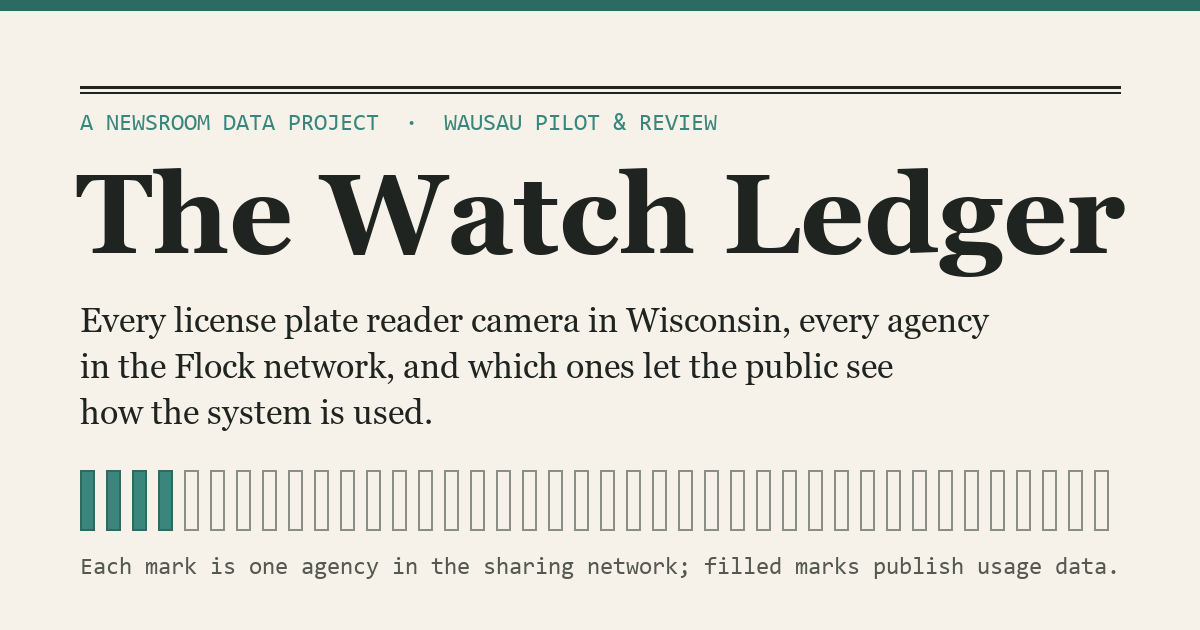
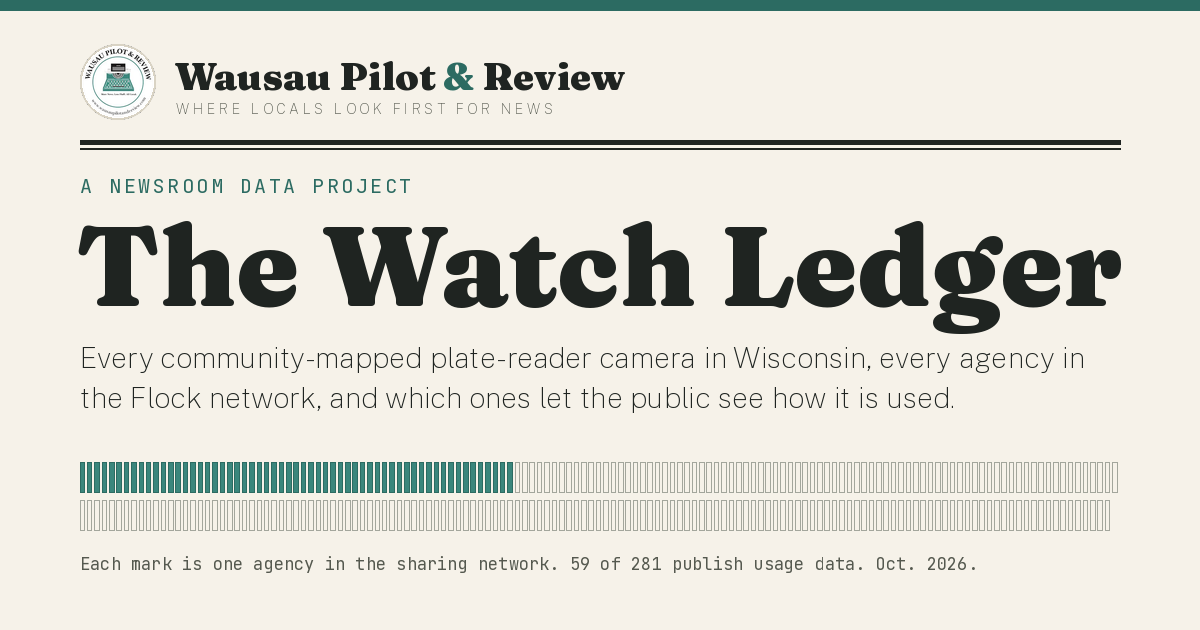
Brand pass: WPR tagline and footer, and a social card that tells the truth
Checked against the wpr-brand skill's house invariants.

Masthead: adds "Where Locals Look First For News" under the wordmark, set
exactly and letter-spaced, as every WPR tool carries it. It is part of the
shared Brand component, so the loading and error states get it too.

Footer: rebuilt to the house pattern, with the seal on the left at 44 px
and a text block of data provenance (all seven sources by name), a
non-affiliation line (Flock Safety, the agencies, the sources), and the
credit with 715-301-5539. Dead .foot-brand/.foot-url CSS removed; the
print stylesheet hides the seal under its new class name.

Social card: the hand-made og-image.png said "Every license plate reader
camera in Wisconsin". That implies completeness, which the house rules
forbid: the page itself says "community-mapped". Its tick bar showed an
illustrative 4 of 40 (10%) where the real ratio is 59 of 281 (21%), and
it had no press seal and a Georgia fallback for the title. The new
pipeline/og_card.py follows the fleet's convention (Pillow, house fonts
downloaded at run time). It draws the seal, wordmark, tagline and double
rule, the title in Fraunces, the corrected subhead, and the tick bar from
the current data with a dated caption, since shares are cached for
weeks. og:image now carries ?v=2026-10 so platforms refetch it.

Payload checked while here: GitHub Pages gzips the data files, and the
six largest total about 140 KB on the wire, so no change is needed.
[…]

diff --git a/site/src/styles.css b/site/src/styles.css
@@ -618,16 +618,6 @@ tbody tr:hover td { background: var(--cream); }
 /* methodology */
 .methodology { border-top: 2px solid var(--ink); padding-top: 1.25rem; }
 .methodology p { font-size: 0.85rem; color: var(--ink-soft); max-width: 46rem; }
-.foot-brand {
-  display: flex;
-  align-items: center;
-  justify-content: flex-end;
-  gap: 11px;
-  margin-top: 2rem;
-  text-decoration: none;
-  text-align: right;
-}
-.foot-brand:hover .foot-wordmark, .foot-brand:focus-visible .foot-wordmark { color: var(--teal-deep); }
 .foot-wordmark {
   display: block;
   font-family: var(--display);
@@ -635,13 +625,6 @@ tbody tr:hover td { background: var(--cream); }
   font-size: 1.05rem;
   line-height: 1.2;
   color: var(--ink);
-}
-.foot-url {
-  display: block;
-  font-family: var(--mono);
-  font-size: 0.68rem;
-  color: var(--teal-deep);
-  margin-top: 2px;
 }
 .foot-badge { width: 44px; height: 44px; }
 
@@ -1017,7 +1000,7 @@ tr.row-home td:first-child { font-weight: 700; }
 @media (max-width: 900px) { .jump { grid-template-columns: repeat(4, minmax(0, 1fr)); } }
 @media (max-width: 560px) { .jump { grid-template-columns: repeat(3, minmax(0, 1fr)); } .jump-link { font-size: 0.6rem; padding: 0.4rem 0.2rem; } }
 .toolbar-note { flex-basis: 100%; margin: 0; font-family: var(--mono); font-size: 0.72rem; color: var(--teal-deep); }
-.foot-credit { font-size: 0.85rem !important; color: var(--ink-soft) !important; margin: 1.2rem 0 0.2rem; }
+.foot-credit { margin: 0; }
 .foot-credit strong { color: var(--ink); }
 
 /* county picker above the map */
@@ -1073,7 +1056,7 @@ tr.row-home td:first-child { font-weight: 700; }
 @media print {
   body { background: #fff; color: #000; font-size: 11pt; }
   .page { max-width: none; padding: 0; }
-  .toolbar, .map-card, .cp, .table-tools, .table-tools-top, .table-hint, .dl, .link-btn, .graph-tools, .foot-brand .brand-badge { display: none !important; }
+  .toolbar, .map-card, .cp, .table-tools, .table-tools-top, .table-hint, .dl, .link-btn, .graph-tools, .foot-seal { display: none !important; }
   .camera-map { height: 420px; }
   .table-scroll, .roster .table-scroll, .county-rollup .table-scroll { max-height: none; overflow: visible; border: none; }
   table { min-width: 0; font-size: 9pt; }
@@ -1635,3 +1618,21 @@ tr.row-home td:first-child { font-weight: 700; }
 .graph-scroll + .gap-caption, .silent-rows + .gap-caption, .reach-rows + .gap-caption { margin-top: 0.55rem; }
 .graph-scroll:focus-visible { outline: 2px solid var(--teal-deep); outline-offset: 2px; }
 .ledger-stale summary:focus-visible { outline: 2px solid var(--cream); outline-offset: 2px; }
+
+/* WPR house tagline, set exactly; sits under the wordmark, aligned with it */
+.tagline {
+  font-family: var(--body);
+  font-size: 0.64rem;
+  letter-spacing: 0.28em;
+  text-transform: uppercase;
+  color: var(--ink-soft);
+  margin: 0.35rem 0 0 calc(54px + 13px);
+}
+@media (max-width: 420px) { .tagline { margin-left: 0; letter-spacing: 0.2em; } }
+
+/* WPR house footer: seal left at 44 px, provenance, non-affiliation, credit */
+.foot { display: flex; gap: 14px; align-items: flex-start; margin-top: 2rem; padding-top: 1.1rem; border-top: 1px solid var(--line); }
+.foot-seal { flex-shrink: 0; line-height: 0; }
+.foot-text p { font-size: 0.75rem; line-height: 1.6; color: var(--ink-soft); margin: 0 0 0.35rem; max-width: 40rem; }
+.foot-text p.foot-wordmark { font-family: var(--display); font-weight: 650; font-size: 1.05rem; color: var(--ink); line-height: 1.2; margin-bottom: 0.3rem; }
+.foot-text .foot-credit strong { color: var(--ink); }

diff --git a/site/src/Methodology.jsx b/site/src/Methodology.jsx
@@ -134,24 +134,33 @@ export default function Methodology({ meta, wisdot, counties, withPortal, staleT
         versioned on GitHub</a>, refreshed every Monday. Both tables above export to CSV.
       </p>
 
-      <p className="foot-credit">
-        Reporting tool developed by <strong>Rowan Flynn</strong> for Wausau Pilot &amp; Review
-        {" · "}<a className="foot-tel" href="tel:+17153015539">715-301-5539</a>
-      </p>
-
-      <a className="foot-brand" href="https://wausaupilotandreview.com" target="_blank" rel="noreferrer">
-        <span>
-          <span className="foot-wordmark">
+      <div className="foot">
+        <a className="foot-seal" href="https://wausaupilotandreview.com" target="_blank" rel="noreferrer" aria-label="Wausau Pilot & Review home">
+          <span
+            className="brand-badge foot-badge"
+            aria-hidden="true"
+            style={{ backgroundImage: `url(${import.meta.env.BASE_URL}wpr-badge.jpg)` }}
+          />
+        </a>
+        <div className="foot-text">
+          <p className="foot-wordmark">
             Wausau Pilot <span className="amp">&amp;</span> Review
-          </span>
-          <span className="foot-url">wausaupilotandreview.com</span>
-        </span>
-        <span
-          className="brand-badge foot-badge"
-          aria-hidden="true"
-          style={{ backgroundImage: `url(${import.meta.env.BASE_URL}wpr-badge.jpg)` }}
-        />
-      </a>
+          </p>
+          <p>
+            Data from DeFlock volunteers on OpenStreetMap, Eyes On Flock, USA TODAY, Wisconsin DOT
+            records mapped by Deflock Dane, EFF's Atlas of Surveillance, ICE and the Wisconsin
+            Department of Administration · refreshed every Monday.
+          </p>
+          <p>
+            Not affiliated with or endorsed by Flock Safety, any law enforcement agency listed here,
+            or any of the sources above.
+          </p>
+          <p className="foot-credit">
+            Reporting tool developed by <strong>Rowan Flynn</strong> for Wausau Pilot &amp; Review
+            {" · "}<a className="foot-tel" href="tel:+17153015539">715-301-5539</a>
+          </p>
+        </div>
+      </div>
     </footer>
   );
 }

diff --git a/site/index.html b/site/index.html
@@ -11,12 +11,12 @@
     <meta property="og:title" content="The Watch Ledger" />
     <meta property="og:description" content="Tracking automated license plate reader surveillance across Wisconsin: every mapped camera, every agency in the Flock network, who publishes their data, and who actually runs the searches." />
     <meta property="og:url" content="https://rowanflynnpilot.github.io/wpr-watch-ledger/" />
-    <meta property="og:image" content="https://rowanflynnpilot.github.io/wpr-watch-ledger/og-image.png" />
+    <meta property="og:image" content="https://rowanflynnpilot.github.io/wpr-watch-ledger/og-image.png?v=2026-10" />
     <meta property="og:image:width" content="1200" />
     <meta property="og:image:height" content="630" />
     <meta property="og:image:alt" content="The Watch Ledger: Wausau Pilot & Review's tracker of license plate reader surveillance in Wisconsin" />
     <meta name="twitter:card" content="summary_large_image" />
-    <meta name="twitter:image" content="https://rowanflynnpilot.github.io/wpr-watch-ledger/og-image.png" />
+    <meta name="twitter:image" content="https://rowanflynnpilot.github.io/wpr-watch-ledger/og-image.png?v=2026-10" />
     <meta name="twitter:title" content="The Watch Ledger" />
     <meta name="twitter:description" content="Tracking automated license plate reader surveillance across Wisconsin: every mapped camera, every agency in the Flock network, who publishes their data, and who actually runs the searches." />
     <link rel="preconnect" href="https://fonts.googleapis.com" />

diff --git a/site/src/App.jsx b/site/src/App.jsx
@@ -39,6 +39,7 @@ function Brand() {
           Wausau Pilot <span className="amp">&amp;</span> Review
         </span>
       </a>
+      <p className="tagline">Where Locals Look First For News</p>
       <div className="rule-double" aria-hidden="true" />
       <p className="eyebrow">A newsroom data project · developed by Rowan Flynn</p>
       <h1>The Watch Ledger</h1>

diff --git a/pipeline/og_card.py b/pipeline/og_card.py
@@ -1,0 +1,139 @@
+"""Build the 1200x630 social card, site/public/og-image.png.
+
+    python pipeline/og_card.py
+
+Run by hand when the branding or the headline figure changes enough to matter, not on every
+deploy: social platforms cache a card for weeks, so its one figure carries a month and year.
+Follows WPR's card convention: the press seal, the WPR name and tagline, the tool's name in
+the system's display face, one line of subhead, no screenshots of the tool. Fonts are the
+house faces (Fraunces, Public Sans, JetBrains Mono), downloaded from Google Fonts' repository
+at run time into a cache folder, so the card never falls back to a system serif.
+"""
+
+import json
+import sys
+import urllib.request
+from datetime import date
+from pathlib import Path
+
+from PIL import Image, ImageDraw, ImageFont
+
+ROOT = Path(__file__).resolve().parent.parent
+OUT = ROOT / "site" / "public" / "og-image.png"
+BADGE = ROOT / "site" / "public" / "wpr-badge.jpg"
+CACHE = Path.home() / ".cache" / "wpr-fonts"
+
+FONTS = {
+    "fraunces": "https://github.com/google/fonts/raw/main/ofl/fraunces/Fraunces%5BSOFT,WONK,opsz,wght%5D.ttf",
+    "publicsans": "https://github.com/google/fonts/raw/main/ofl/publicsans/PublicSans%5Bwght%5D.ttf",
+    "jetbrains": "https://github.com/google/fonts/raw/main/ofl/jetbrainsmono/JetBrainsMono%5Bwght%5D.ttf",
+}
+
+CREAM, INK, INK_SOFT = "#F6F2E9", "#1F2421", "#55594F"
+TEAL, TEAL_DEEP, LINE = "#3A867C", "#2C6B62", "#D9D3C4"
+W, H, M = 1200, 630, 80
+MONTHS = ["Jan.", "Feb.", "March", "April", "May", "June", "July", "Aug.", "Sept.", "Oct.", "Nov.", "Dec."]
+
+
+def font_file(key: str) -> Path:
+    CACHE.mkdir(parents=True, exist_ok=True)
+    path = CACHE / f"{key}.ttf"
+    if not path.exists():
+        req = urllib.request.Request(FONTS[key], headers={"User-Agent": "WPR-WatchLedger/1.0"})
+        path.write_bytes(urllib.request.urlopen(req, timeout=60).read())
+    return path
+
+
+def face(key: str, size: int, **axes) -> ImageFont.FreeTypeFont:
+    f = ImageFont.truetype(str(font_file(key)), size)
+    if axes:
+        names = [a["name"].decode() if isinstance(a["name"], bytes) else a["name"] for a in f.get_variation_axes()]
+        defaults = {n: a["default"] for n, a in zip(names, f.get_variation_axes())}
+        f.set_variation_by_axes([axes.get(n.lower(), axes.get(n, defaults[n])) for n in names])
+    return f
+
+
+def tracked(draw, xy, text, font, fill, spacing):
+    x, y = xy
+    for ch in text:
+        draw.text((x, y), ch, font=font, fill=fill)
+        x += draw.textlength(ch, font=font) + spacing
+    return x
+
+
+def wrap(draw, text, font, width):
+    lines, line = [], ""
+    for word in text.split():
+        trial = f"{line} {word}".strip()
+        if draw.textlength(trial, font=font) <= width:
+            line = trial
+        else:
+            lines.append(line)
+            line = word
+    return lines + [line]
+
+
+def main() -> None:
+    agencies = json.loads((ROOT / "data" / "agencies.json").read_text(encoding="utf-8"))["agencies"]
+    network = [a for a in agencies if a["in_network"]]
+    publish = sum(1 for a in network if a["portal"])
+    if not network or not BADGE.exists():
+        sys.exit("og_card: need data/agencies.json and site/public/wpr-badge.jpg")
+
+    img = Image.new("RGB", (W, H), CREAM)
+    d = ImageDraw.Draw(img)
+    d.rectangle([0, 0, W, 10], fill=TEAL_DEEP)
+
+    # The flag: seal, wordmark, tagline, then the newspaper's thick-over-thin rule.
+    seal = Image.open(BADGE).convert("RGB").resize((76, 76), Image.LANCZOS)
+    mask = Image.new("L", (76 * 4, 76 * 4), 0)
+    ImageDraw.Draw(mask).ellipse([0, 0, 76 * 4 - 1, 76 * 4 - 1], fill=255)
+    img.paste(seal, (M, 44), mask.resize((76, 76), Image.LANCZOS))
+    d.ellipse([M, 44, M + 75, 44 + 75], outline=LINE, width=2)
+    wordmark = face("fraunces", 38, opsz=72, wght=650)
+    x = M + 76 + 18
+    d.text((x, 52), "Wausau Pilot ", font=wordmark, fill=INK)
+    x += d.textlength("Wausau Pilot ", font=wordmark)
+    amp = face("fraunces", 38, opsz=72, wght=500)
+    d.text((x, 52), "&", font=amp, fill=TEAL_DEEP)
+    x += d.textlength("& ", font=amp)
+    d.text((x, 52), "Review", font=wordmark, fill=INK)
+    tracked(d, (M + 76 + 20, 100), "WHERE LOCALS LOOK FIRST FOR NEWS", face("publicsans", 14, wght=500), INK_SOFT, 3.6)
+    d.rectangle([M, 140, W - M, 144], fill=INK)
+    d.rectangle([M, 148, W - M, 149], fill=INK)
+
+    tracked(d, (M, 172), "A NEWSROOM DATA PROJECT", face("jetbrains", 20, wght=500), TEAL_DEEP, 2.5)
+    d.text((M - 4, 196), "The Watch Ledger", font=face("fraunces", 112, opsz=144, wght=800), fill=INK)
+
+    sub = ("Every community-mapped plate-reader camera in Wisconsin, every agency in the "
+           "Flock network, and which ones let the public see how it is used.")
+    sub_font = face("publicsans", 29, wght=400)
+    y = 340
+    for line in wrap(d, sub, sub_font, W - 2 * M):
+        d.text((M, y), line, font=sub_font, fill=INK)
+        y += 40
+
+    # The signature tick bar, from the current data: one mark per agency in the network.
+    rows = 2
+    per_row = -(-len(network) // rows)
+    pitch = (W - 2 * M) / per_row
+    tw, th, top = max(2.0, pitch * 0.62), 30, 462
+    order = sorted(network, key=lambda a: (a["portal"] is None, a["name"]))
+    for i, a in enumerate(order):
+        r, c = divmod(i, per_row)
+        x0, y0 = M + c * pitch, top + r * (th + 8)
+        if a["portal"]:
+            d.rectangle([x0, y0, x0 + tw, y0 + th], fill=TEAL, outline=TEAL_DEEP)
+        else:
+            d.rectangle([x0, y0, x0 + tw, y0 + th], outline="#A3A69C", width=1)
+    today = date.today()
+    caption = (f"Each mark is one agency in the sharing network. {publish} of {len(network)} publish "
+               f"usage data. {MONTHS[today.month - 1]} {today.year}.")
+    d.text((M, top + rows * (th + 8) + 14), caption, font=face("jetbrains", 17, wght=400), fill=INK_SOFT)
+
+    img.save(OUT, optimize=True)
+    print(f"wrote {OUT.relative_to(ROOT)}: {publish} of {len(network)} publish, {OUT.stat().st_size // 1024} KB")
+
+
+if __name__ == "__main__":
+    main()

diff --git a/CLAUDE.md b/CLAUDE.md
@@ -209,6 +209,12 @@ until 2026-10-26 and clashed with the DROPPED badges beside them). The map's rus
 permit" rings are the one deliberate exception, a gap the volunteers haven't mapped.
 Fraunces display, Public Sans body, JetBrains Mono for data. Signature element: the
 transparency-gap tick bar (one tick per network agency, filled = publishes a portal).
+This is WPR's "Follow the Money" system (see the wpr-brand skill). House invariants it carries:
+press seal + wordmark linked home, the tagline "Where Locals Look First For News" set exactly,
+thick-over-thin rule, and a footer of seal + provenance + non-affiliation + 715-301-5539.
+Social card: `pipeline/og_card.py` (run by hand; Pillow; downloads the house fonts) writes
+site/public/og-image.png from the current data with a dated figure. Rerun it when the headline
+ratio moves, and bump the `?v=` on og:image/twitter:image in index.html so Facebook refetches.
 
 ## Known constraints
 
